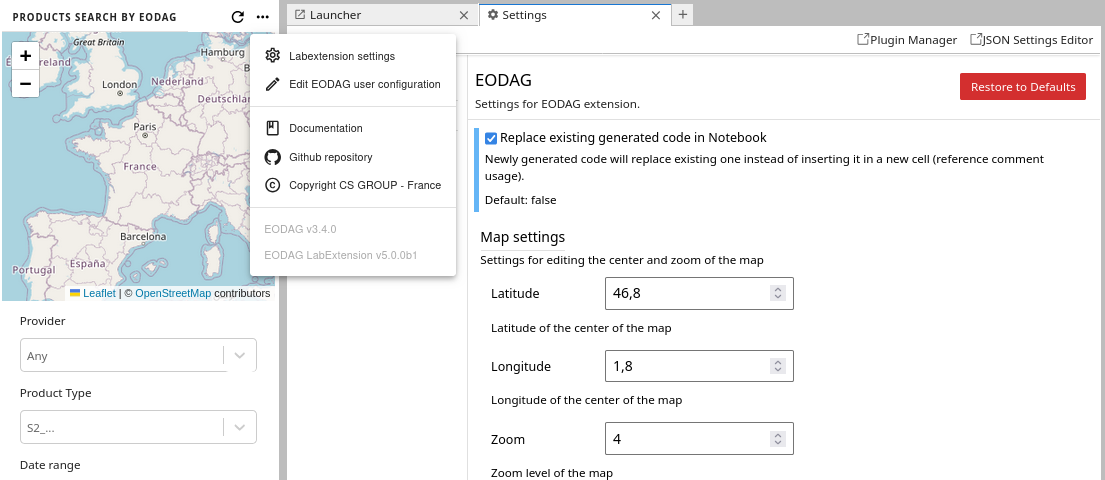
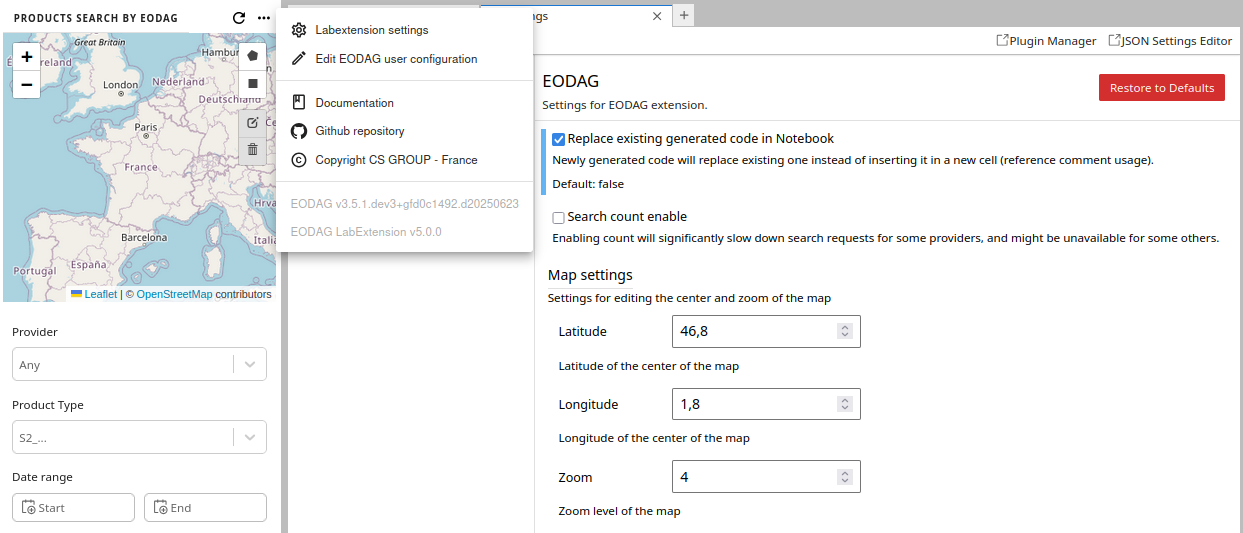
feat(settings): search count disabled by default (#247)

diff --git a/src/utils/codeGenerator.ts b/src/utils/codeGenerator.ts
@@ -9,6 +9,7 @@ import { geojsonToWKT } from '@terraformer/wkt';
 
 import { IFormInput } from '../types';
 import { isUndefined } from 'lodash';
+import { useEodagSettings } from '../hooks/useEodagSettings';
 
 const formatDate = (date: Date): string => {
   const local = new Date(date);
@@ -16,7 +17,7 @@ const formatDate = (date: Date): string => {
   return local.toJSON().slice(0, 10);
 };
 
-export const codeGenerator = (
+export const codeGenerator = async (
   {
     startDate,
     endDate,
@@ -29,6 +30,10 @@ export const codeGenerator = (
   }: IFormInput,
   replaceCode: boolean
 ) => {
+  const { getEodagSettings } = useEodagSettings();
+  const settings = await getEodagSettings();
+  const searchCount = settings.searchCount;
+
   const start = startDate ? formatDate(startDate) : undefined;
   const end = endDate ? formatDate(endDate) : undefined;
   const tab = ' '.repeat(4);
@@ -74,6 +79,10 @@ search_results = dag.search(`;
   if (id) {
     code += `
     id="${id}",`;
+  }
+  if (searchCount === true) {
+    code += `
+    count=True,`;
   }
   let filteredParameters: { name: string; value: string }[] = [];
   if (!isUndefined(additionalParameters)) {

diff --git a/src/components/browser.tsx b/src/components/browser.tsx
@@ -119,7 +119,8 @@ export const EodagBrowser: React.FC<IEodagBrowserProps> = ({
     const idParam = params.find(p => p.key === 'id');
     const idValue = idParam?.value?.id;
 
-    const replaceCode = await getEodagSettings();
+    const settings = await getEodagSettings();
+    const replaceCode = settings.replaceCode;
     let input: IFormInput;
     if (isUndefined(formValues)) {
       input = {
@@ -145,7 +146,12 @@ export const EodagBrowser: React.FC<IEodagBrowserProps> = ({
         input = formValues as IFormInput;
       }
     }
-    insertCode(notebook, model, codeGenerator(input, replaceCode), replaceCode);
+    insertCode(
+      notebook,
+      model,
+      await codeGenerator(input, replaceCode),
+      replaceCode
+    );
   };
 
   return (

diff --git a/src/utils/searchService.ts b/src/utils/searchService.ts
@@ -10,6 +10,7 @@ import { ServerConnection } from '@jupyterlab/services';
 import { URLExt } from '@jupyterlab/coreutils';
 import { IFormInput, ISearchParameters } from '../types';
 import _, { isUndefined } from 'lodash';
+import { useEodagSettings } from '../hooks/useEodagSettings';
 
 const formatDate = (date: Date): string => {
   const local = new Date(date);
@@ -78,6 +79,11 @@ class SearchService {
         parameters[key] = formValues[key];
       }
     });
+
+    // count
+    const { getEodagSettings } = useEodagSettings();
+    const settings = await getEodagSettings();
+    parameters.count = settings.searchCount;
 
     const headers = new Headers({
       'Content-Type': 'application/json'

diff --git a/src/hooks/useEodagSettings.ts b/src/hooks/useEodagSettings.ts
@@ -20,8 +20,7 @@ export const useEodagSettings = () => {
         return res.json();
       })
       .then(data => {
-        const { replaceCode } = data.settings;
-        return replaceCode;
+        return data.settings;
       });
   };
 

diff --git a/tests/test_handlers.py b/tests/test_handlers.py
@@ -195,6 +195,7 @@ class TestEodagLabExtensionHandler(AsyncHTTPTestCase):
                     "cloudCover": 50,
                     "foo": "bar",
                     "provider": "cop_dataspace",
+                    "count": False,
                 }
             ),
         )
@@ -207,7 +208,7 @@ class TestEodagLabExtensionHandler(AsyncHTTPTestCase):
             cloudCover=50,
             foo="bar",
             provider="cop_dataspace",
-            count=True,
+            count=False,
             raise_errors=True,
         )
         self.assertDictEqual(
@@ -233,7 +234,6 @@ class TestEodagLabExtensionHandler(AsyncHTTPTestCase):
         mock_search.assert_called_once_with(
             mock.ANY,
             productType="S2_MSI_L1C",
-            count=True,
         )
 
         # date error

diff --git a/eodag_labextension/handlers.py b/eodag_labextension/handlers.py
@@ -406,7 +406,7 @@ class SearchHandler(APIHandler):
         if int(page) == DEFAULT_PAGE:
             # first search
             results_iterator = await current_loop.run_in_executor(
-                None, partial(dag.search_iter_page, productType=product_type, count=True, **arguments)
+                None, partial(dag.search_iter_page, productType=product_type, **arguments)
             )
         if results_iterator is None:
             raise ValidationError(

diff --git a/README.md b/README.md
@@ -121,6 +121,8 @@ You will be enable to:
 - Configure Labextension through its settings:
 
   - choose whether newly inserted code should replace existing search code or not;
+  - enable search count, which would significantly slow down search requests for some providers, and might be
+    unavailable for some others;
   - configure the default map settings.
 
 - Edit [EODAG user configuration file](https://eodag.readthedocs.io/en/stable/getting_started_guide/configure.html#yaml-user-configuration-file),
